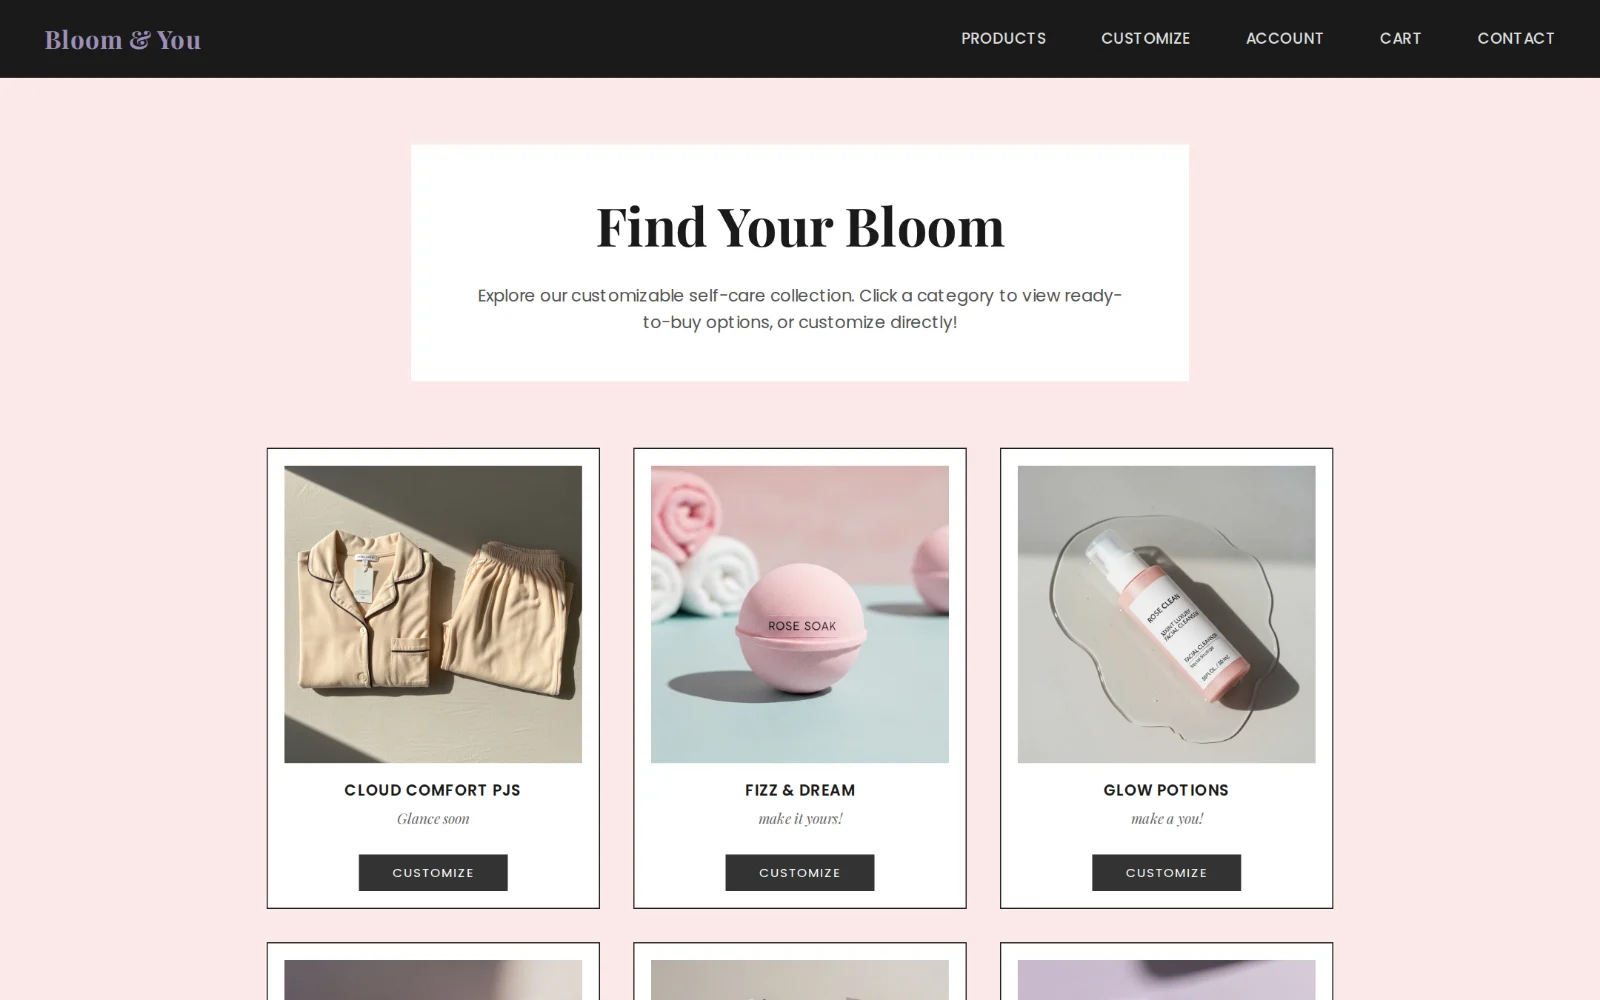
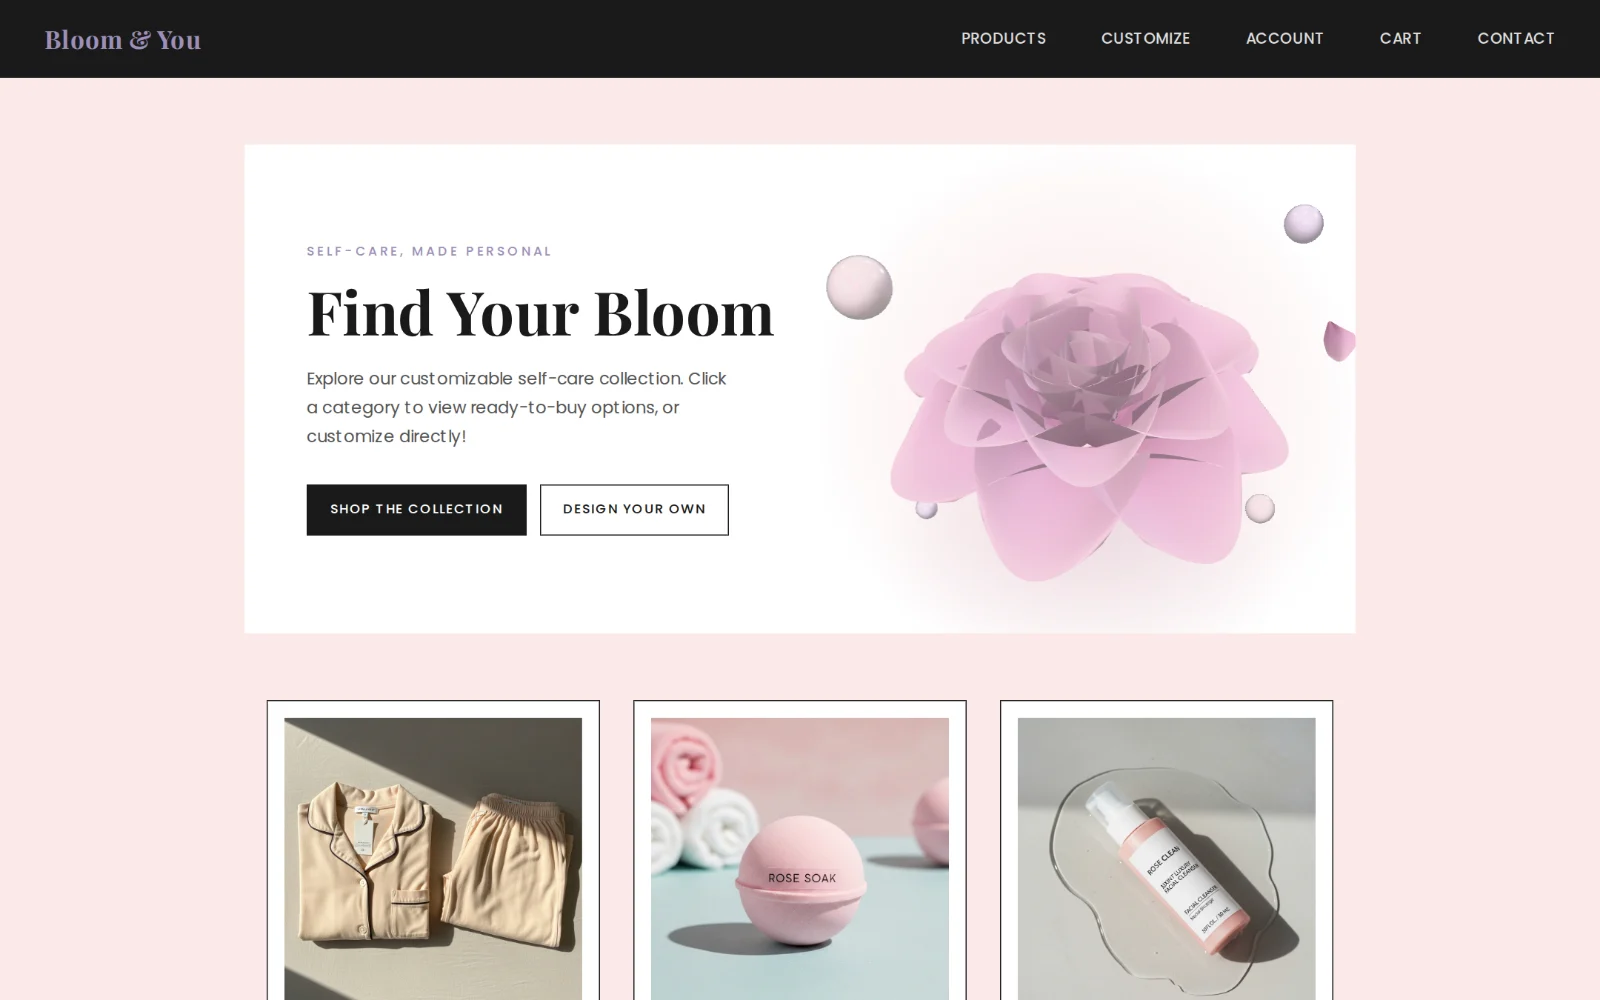
Smoother bloom on slow devices; README notes the 3D hero and updated screenshots

diff --git a/frontend/src/components/BloomScene.jsx b/frontend/src/components/BloomScene.jsx
@@ -215,7 +215,7 @@ export default function BloomScene() {
       };
 
       const frame = (now) => {
-        const dt = Math.min(0.05, (now - last) / 1000);
+        const dt = Math.min(0.1, (now - last) / 1000);
         last = now;
         time += dt;
         pose(time);
